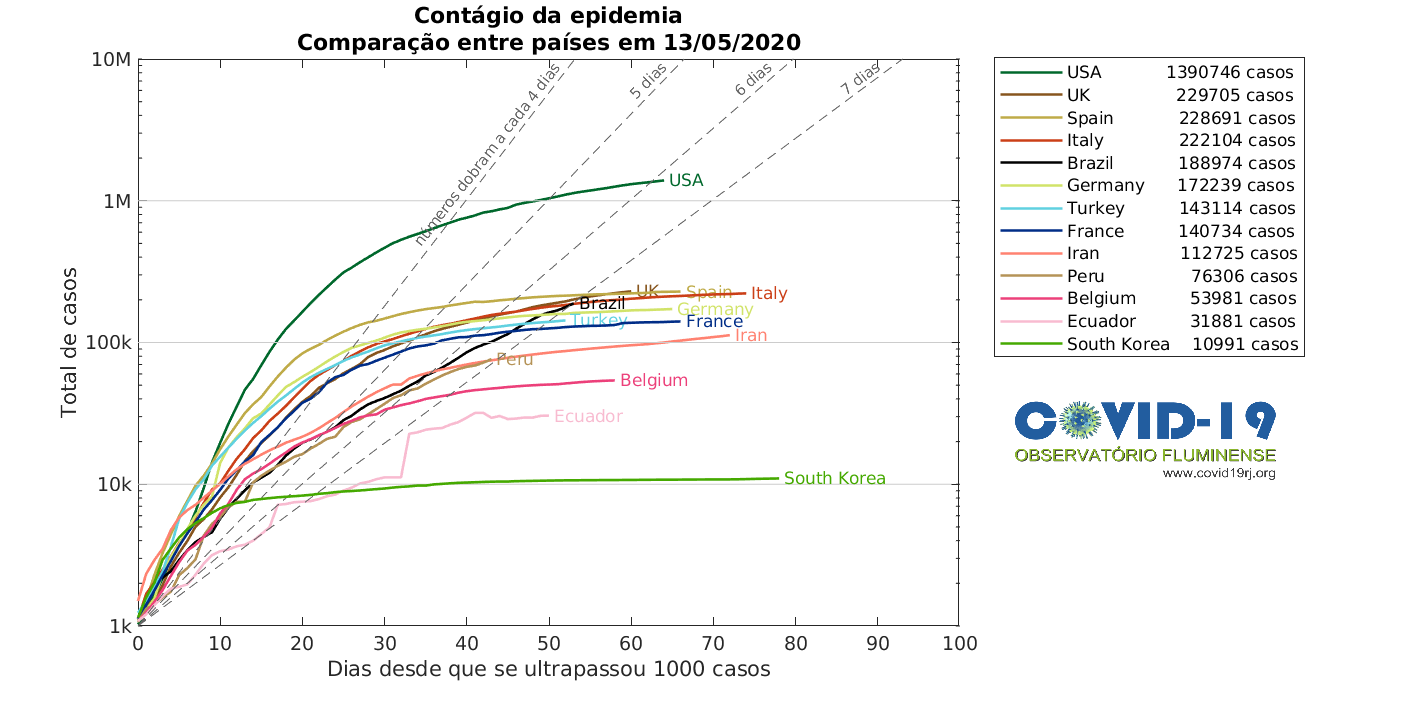
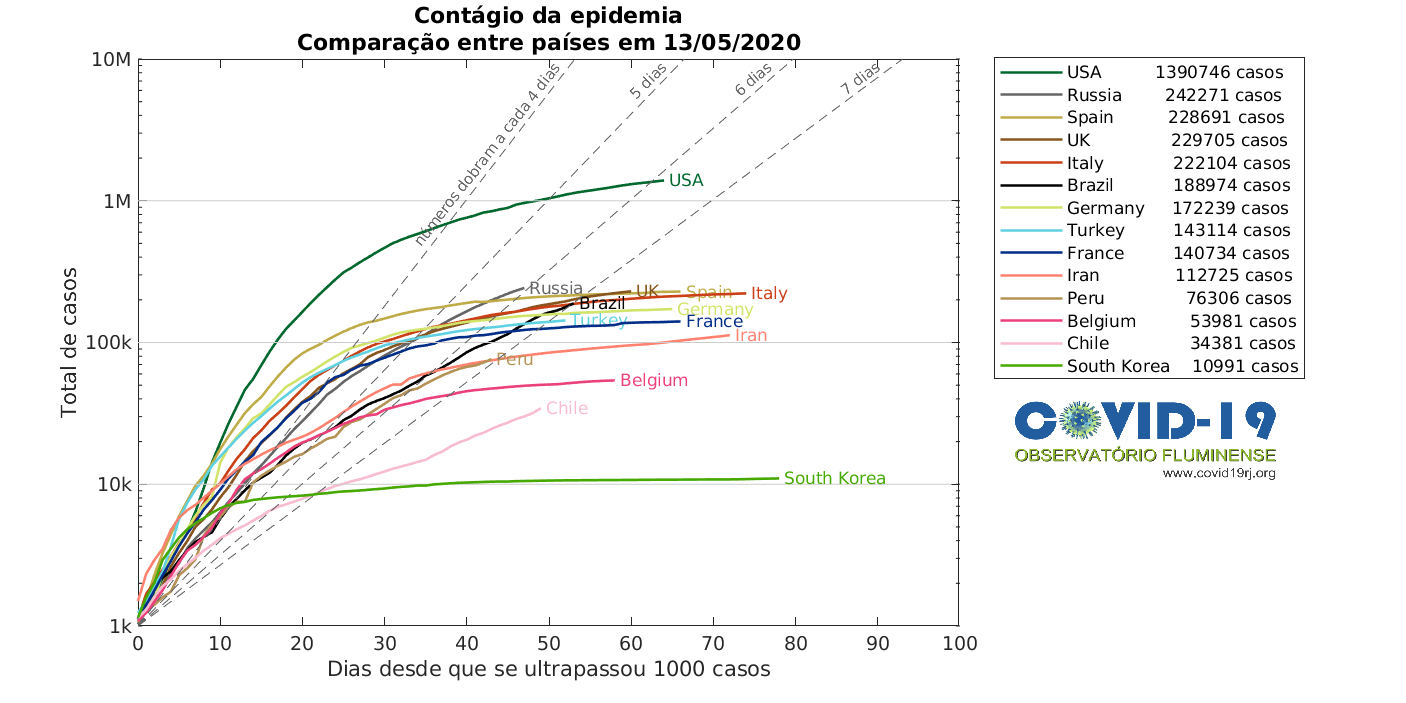
Add files via upload

diff --git a/Monitoramento/World/covid_mundo_abs.m b/Monitoramento/World/covid_mundo_abs.m
@@ -45,25 +45,26 @@ data = table2array(all_data(:,4:end));
 %plot_type é pra diferenciar mortes e casos pra organizarmos a ordem da legenda de acordo com o número de mortes ou de casos
 for( plot_type = 1:1:2)
 %loop nos 13 países estudados
-for( init = 1:1:13)
+for( init = 1:1:14)
 
 clearvars -except plot_type init all_data data name paises tot_mortes tot_casos
 
 if (plot_type == 1)
 %ordem por países que tem mais morte
 if (init == 6) country = 'Brazil'; color = [0,0,0]/255; end
-if (init == 13) country = 'South Korea'; color = [69,169,0]/255; end
+if (init == 14) country = 'South Korea'; color = [69,169,0]/255; end
 if (init == 10) country = 'Turkey'; color = [96,209,224]/255; end  
 if (init == 12) country = 'Peru'; color = [181,147,87]/255; end
 if (init == 9) country = 'Iran'; color = [255,130,113]/255; end
 if (init == 8) country = 'Germany'; color = [209,227,105]/255; end
-if (init == 11) country = 'Ecuador'; color = [248,187,208]/255; end
+if (init == 13) country = 'Chile'; color = [248,187,208]/255; end
 if (init == 1) country = 'United States'; color = [0,104,44]/255; end
-if (init == 5) country = 'France'; color = [0,45,135]/255; end
+if (init == 4) country = 'France'; color = [0,45,135]/255; end
 if (init == 2) country = 'United Kingdom'; color = [135,85,30]/255; end
 if (init == 3) country = 'Italy'; color = [203,63,23]/255; end
-if (init == 4) country = 'Spain'; color = [191,171,72]/255; end
+if (init == 5) country = 'Spain'; color = [191,171,72]/255; end
 if (init == 7) country = 'Belgium'; color = [236,64,122]/255; end
+if (init == 11) country = 'Russia'; color = [0.4,0.4,0.4]; end
 
 location = data(find(strcmp([all_data.location], country)),1:8);
 
@@ -75,32 +76,35 @@ if strcmp(country, 'United Kingdom') country = 'UK              '; end
 if strcmp(country, 'Belgium') country = 'Belgium        '; end 
 if strcmp(country, 'Brazil') country = 'Brazil          '; end 
 if strcmp(country, 'Iran') country = 'Iran               '; end 
-if strcmp(country, 'South Korea') country = 'South Korea   '; end 
+if strcmp(country, 'South Korea') country = 'South Korea    '; end 
 if strcmp(country, 'Turkey') country = 'Turkey          '; end 
 if strcmp(country, 'Peru') country = 'Peru              '; end 
-if strcmp(country, 'Ecuador') country = 'Ecuador        '; end 
+if strcmp(country, 'Chile') country = 'Chile               '; end 
 if strcmp(country, 'France') country = 'France        '; end 
 if strcmp(country, 'Spain') country = 'Spain          '; end 
 if strcmp(country, 'Italy') country = 'Italy            '; end 
 if strcmp(country, 'Germany') country = 'Germany      '; end 
+if strcmp(country, 'Russia') country = 'Russia           '; end 
+
 
 end
 
 if (plot_type == 2)
 %ordem por países que tem mais caso
-if (init == 5) country = 'Brazil'; color = [0,0,0]/255; end
-if (init == 13) country = 'South Korea'; color = [69,169,0]/255; end
-if (init == 7) country = 'Turkey'; color = [96,209,224]/255; end  
-if (init == 10) country = 'Peru'; color = [181,147,87]/255; end
-if (init == 9) country = 'Iran'; color = [255,130,113]/255; end
-if (init == 6) country = 'Germany'; color = [209,227,105]/255; end
-if (init == 12) country = 'Ecuador'; color = [248,187,208]/255; end
+if (init == 6) country = 'Brazil'; color = [0,0,0]/255; end
+if (init == 14) country = 'South Korea'; color = [69,169,0]/255; end
+if (init == 8) country = 'Turkey'; color = [96,209,224]/255; end  
+if (init == 11) country = 'Peru'; color = [181,147,87]/255; end
+if (init == 10) country = 'Iran'; color = [255,130,113]/255; end
+if (init == 7) country = 'Germany'; color = [209,227,105]/255; end
+if (init == 13) country = 'Chile'; color = [248,187,208]/255; end
 if (init == 1) country = 'United States'; color = [0,104,44]/255; end
-if (init == 8) country = 'France'; color = [0,45,135]/255; end
-if (init == 2) country = 'United Kingdom'; color = [135,85,30]/255; end
-if (init == 4) country = 'Italy'; color = [203,63,23]/255; end
+if (init == 9) country = 'France'; color = [0,45,135]/255; end
+if (init == 4) country = 'United Kingdom'; color = [135,85,30]/255; end
+if (init == 5) country = 'Italy'; color = [203,63,23]/255; end
 if (init == 3) country = 'Spain'; color = [191,171,72]/255; end
-if (init == 11) country = 'Belgium'; color = [236,64,122]/255; end
+if (init == 12) country = 'Belgium'; color = [236,64,122]/255; end
+if (init == 2) country = 'Russia'; color = [0.4,0.4,0.4]; end
 
 
 location = data(find(strcmp([all_data.location], country)),1:8);
@@ -108,19 +112,20 @@ location = data(find(strcmp([all_data.location], country)),1:8);
 dates = all_data.date(find(strcmp([all_data.location],country)),:);
 end_time = max(datenum(dates))-1;
 
-if strcmp(country, 'United States') country = 'USA          '; end 
-if strcmp(country, 'United Kingdom') country = 'UK              '; end
+if strcmp(country, 'United States') country = 'USA        '; end 
+if strcmp(country, 'United Kingdom') country = 'UK             '; end
 if strcmp(country, 'Belgium') country = 'Belgium        '; end 
-if strcmp(country, 'Brazil') country = 'Brazil          '; end 
-if strcmp(country, 'Iran') country = 'Iran             '; end 
+if strcmp(country, 'Brazil') country = 'Brazil         '; end 
+if strcmp(country, 'Iran') country = 'Iran            '; end 
 if strcmp(country, 'South Korea') country = 'South Korea  '; end 
-if strcmp(country, 'Turkey') country = 'Turkey        '; end 
-if strcmp(country, 'Peru') country = 'Peru              '; end 
-if strcmp(country, 'Ecuador') country = 'Ecuador        '; end 
-if strcmp(country, 'France') country = 'France        '; end 
-if strcmp(country, 'Spain') country = 'Spain          '; end 
-if strcmp(country, 'Italy') country = 'Italy            '; end 
-if strcmp(country, 'Germany') country = 'Germany    '; end 
+if strcmp(country, 'Turkey') country = 'Turkey       '; end 
+if strcmp(country, 'Peru') country = 'Peru             '; end 
+if strcmp(country, 'Chile') country = 'Chile             '; end 
+if strcmp(country, 'France') country = 'France       '; end 
+if strcmp(country, 'Spain') country = 'Spain        '; end 
+if strcmp(country, 'Italy') country = 'Italy           '; end 
+if strcmp(country, 'Germany') country = 'Germany   '; end 
+if strcmp(country, 'Russia') country = 'Russia      '; end 
 
 end
 

diff --git a/Monitoramento/World/covid_mundo_pm.m b/Monitoramento/World/covid_mundo_pm.m
@@ -49,25 +49,26 @@ data = table2array(all_data(:,4:end));
 %plot_type é pra diferenciar mortes e casos pra organizarmos a ordem da legenda de acordo com o número de mortes ou de casos
 for( plot_type = 1:1:2)
 %loop nos 13 países estudados
-for( init = 1:1:13)
+for( init = 1:1:14)
 
 clearvars -except plot_type init all_data data name paises tot_mortes tot_casos
 
 if (plot_type == 1)
 %ordem por países que tem mais morte
 if (init == 6) country = 'Brazil'; color = [0,0,0]/255; end
-if (init == 13) country = 'South Korea'; color = [69,169,0]/255; end
+if (init == 14) country = 'South Korea'; color = [69,169,0]/255; end
 if (init == 10) country = 'Turkey'; color = [96,209,224]/255; end  
 if (init == 12) country = 'Peru'; color = [181,147,87]/255; end
 if (init == 9) country = 'Iran'; color = [255,130,113]/255; end
 if (init == 8) country = 'Germany'; color = [209,227,105]/255; end
-if (init == 11) country = 'Ecuador'; color = [248,187,208]/255; end
+if (init == 13) country = 'Chile'; color = [248,187,208]/255; end
 if (init == 1) country = 'United States'; color = [0,104,44]/255; end
-if (init == 5) country = 'France'; color = [0,45,135]/255; end
+if (init == 4) country = 'France'; color = [0,45,135]/255; end
 if (init == 2) country = 'United Kingdom'; color = [135,85,30]/255; end
 if (init == 3) country = 'Italy'; color = [203,63,23]/255; end
-if (init == 4) country = 'Spain'; color = [191,171,72]/255; end
+if (init == 5) country = 'Spain'; color = [191,171,72]/255; end
 if (init == 7) country = 'Belgium'; color = [236,64,122]/255; end
+if (init == 11) country = 'Russia'; color = [0.4,0.4,0.4]; end
 
 location = data(find(strcmp([all_data.location], country)),1:8);
 
@@ -79,32 +80,35 @@ if strcmp(country, 'United Kingdom') country = 'UK              '; end
 if strcmp(country, 'Belgium') country = 'Belgium        '; end 
 if strcmp(country, 'Brazil') country = 'Brazil          '; end 
 if strcmp(country, 'Iran') country = 'Iran               '; end 
-if strcmp(country, 'South Korea') country = 'South Korea   '; end 
+if strcmp(country, 'South Korea') country = 'South Korea    '; end 
 if strcmp(country, 'Turkey') country = 'Turkey          '; end 
 if strcmp(country, 'Peru') country = 'Peru              '; end 
-if strcmp(country, 'Ecuador') country = 'Ecuador        '; end 
+if strcmp(country, 'Chile') country = 'Chile               '; end 
 if strcmp(country, 'France') country = 'France        '; end 
 if strcmp(country, 'Spain') country = 'Spain          '; end 
 if strcmp(country, 'Italy') country = 'Italy            '; end 
 if strcmp(country, 'Germany') country = 'Germany      '; end 
+if strcmp(country, 'Russia') country = 'Russia           '; end 
+
 
 end
 
 if (plot_type == 2)
 %ordem por países que tem mais caso
-if (init == 5) country = 'Brazil'; color = [0,0,0]/255; end
-if (init == 13) country = 'South Korea'; color = [69,169,0]/255; end
-if (init == 7) country = 'Turkey'; color = [96,209,224]/255; end  
-if (init == 10) country = 'Peru'; color = [181,147,87]/255; end
-if (init == 9) country = 'Iran'; color = [255,130,113]/255; end
-if (init == 6) country = 'Germany'; color = [209,227,105]/255; end
-if (init == 12) country = 'Ecuador'; color = [248,187,208]/255; end
+if (init == 6) country = 'Brazil'; color = [0,0,0]/255; end
+if (init == 14) country = 'South Korea'; color = [69,169,0]/255; end
+if (init == 8) country = 'Turkey'; color = [96,209,224]/255; end  
+if (init == 11) country = 'Peru'; color = [181,147,87]/255; end
+if (init == 10) country = 'Iran'; color = [255,130,113]/255; end
+if (init == 7) country = 'Germany'; color = [209,227,105]/255; end
+if (init == 13) country = 'Chile'; color = [248,187,208]/255; end
 if (init == 1) country = 'United States'; color = [0,104,44]/255; end
-if (init == 8) country = 'France'; color = [0,45,135]/255; end
-if (init == 2) country = 'United Kingdom'; color = [135,85,30]/255; end
-if (init == 4) country = 'Italy'; color = [203,63,23]/255; end
+if (init == 9) country = 'France'; color = [0,45,135]/255; end
+if (init == 4) country = 'United Kingdom'; color = [135,85,30]/255; end
+if (init == 5) country = 'Italy'; color = [203,63,23]/255; end
 if (init == 3) country = 'Spain'; color = [191,171,72]/255; end
-if (init == 11) country = 'Belgium'; color = [236,64,122]/255; end
+if (init == 12) country = 'Belgium'; color = [236,64,122]/255; end
+if (init == 2) country = 'Russia'; color = [0.4,0.4,0.4]; end
 
 
 location = data(find(strcmp([all_data.location], country)),1:8);
@@ -112,19 +116,20 @@ location = data(find(strcmp([all_data.location], country)),1:8);
 dates = all_data.date(find(strcmp([all_data.location],country)),:);
 end_time = max(datenum(dates))-1;
 
-if strcmp(country, 'United States') country = 'USA          '; end 
-if strcmp(country, 'United Kingdom') country = 'UK              '; end
+if strcmp(country, 'United States') country = 'USA        '; end 
+if strcmp(country, 'United Kingdom') country = 'UK             '; end
 if strcmp(country, 'Belgium') country = 'Belgium        '; end 
-if strcmp(country, 'Brazil') country = 'Brazil          '; end 
-if strcmp(country, 'Iran') country = 'Iran             '; end 
+if strcmp(country, 'Brazil') country = 'Brazil         '; end 
+if strcmp(country, 'Iran') country = 'Iran            '; end 
 if strcmp(country, 'South Korea') country = 'South Korea  '; end 
-if strcmp(country, 'Turkey') country = 'Turkey        '; end 
-if strcmp(country, 'Peru') country = 'Peru              '; end 
-if strcmp(country, 'Ecuador') country = 'Ecuador        '; end 
-if strcmp(country, 'France') country = 'France        '; end 
-if strcmp(country, 'Spain') country = 'Spain          '; end 
-if strcmp(country, 'Italy') country = 'Italy            '; end 
-if strcmp(country, 'Germany') country = 'Germany    '; end 
+if strcmp(country, 'Turkey') country = 'Turkey       '; end 
+if strcmp(country, 'Peru') country = 'Peru             '; end 
+if strcmp(country, 'Chile') country = 'Chile             '; end 
+if strcmp(country, 'France') country = 'France       '; end 
+if strcmp(country, 'Spain') country = 'Spain        '; end 
+if strcmp(country, 'Italy') country = 'Italy           '; end 
+if strcmp(country, 'Germany') country = 'Germany   '; end 
+if strcmp(country, 'Russia') country = 'Russia      '; end 
 
 end
 
